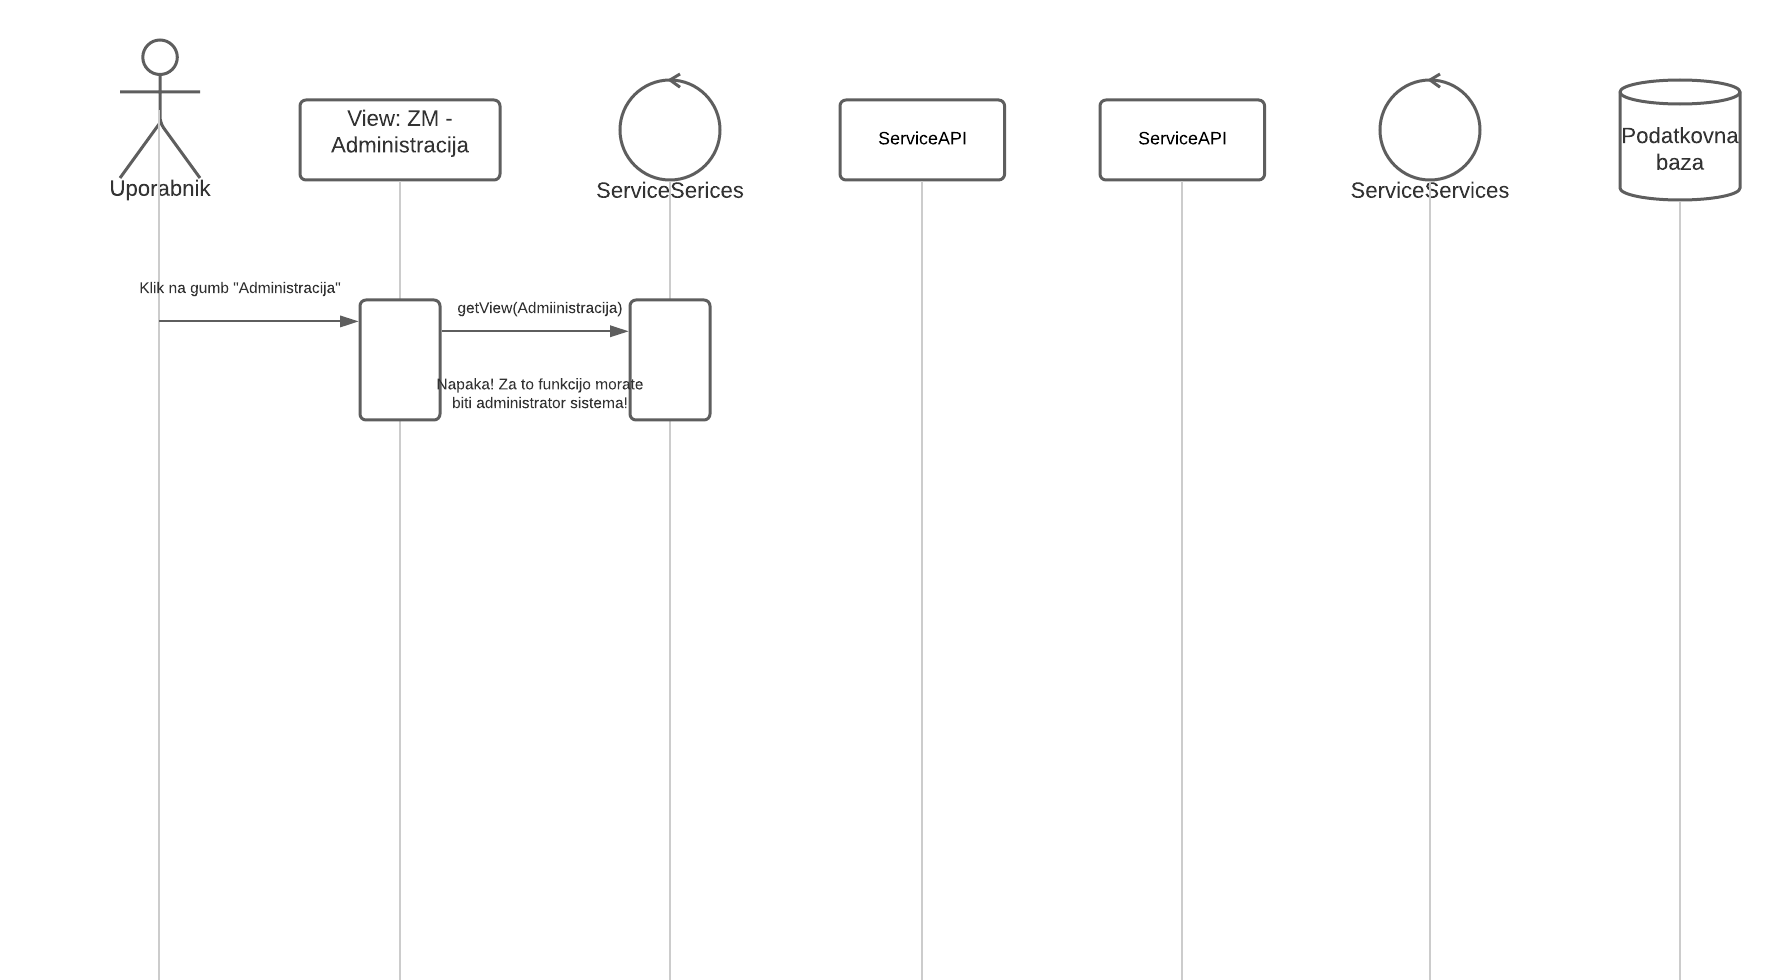
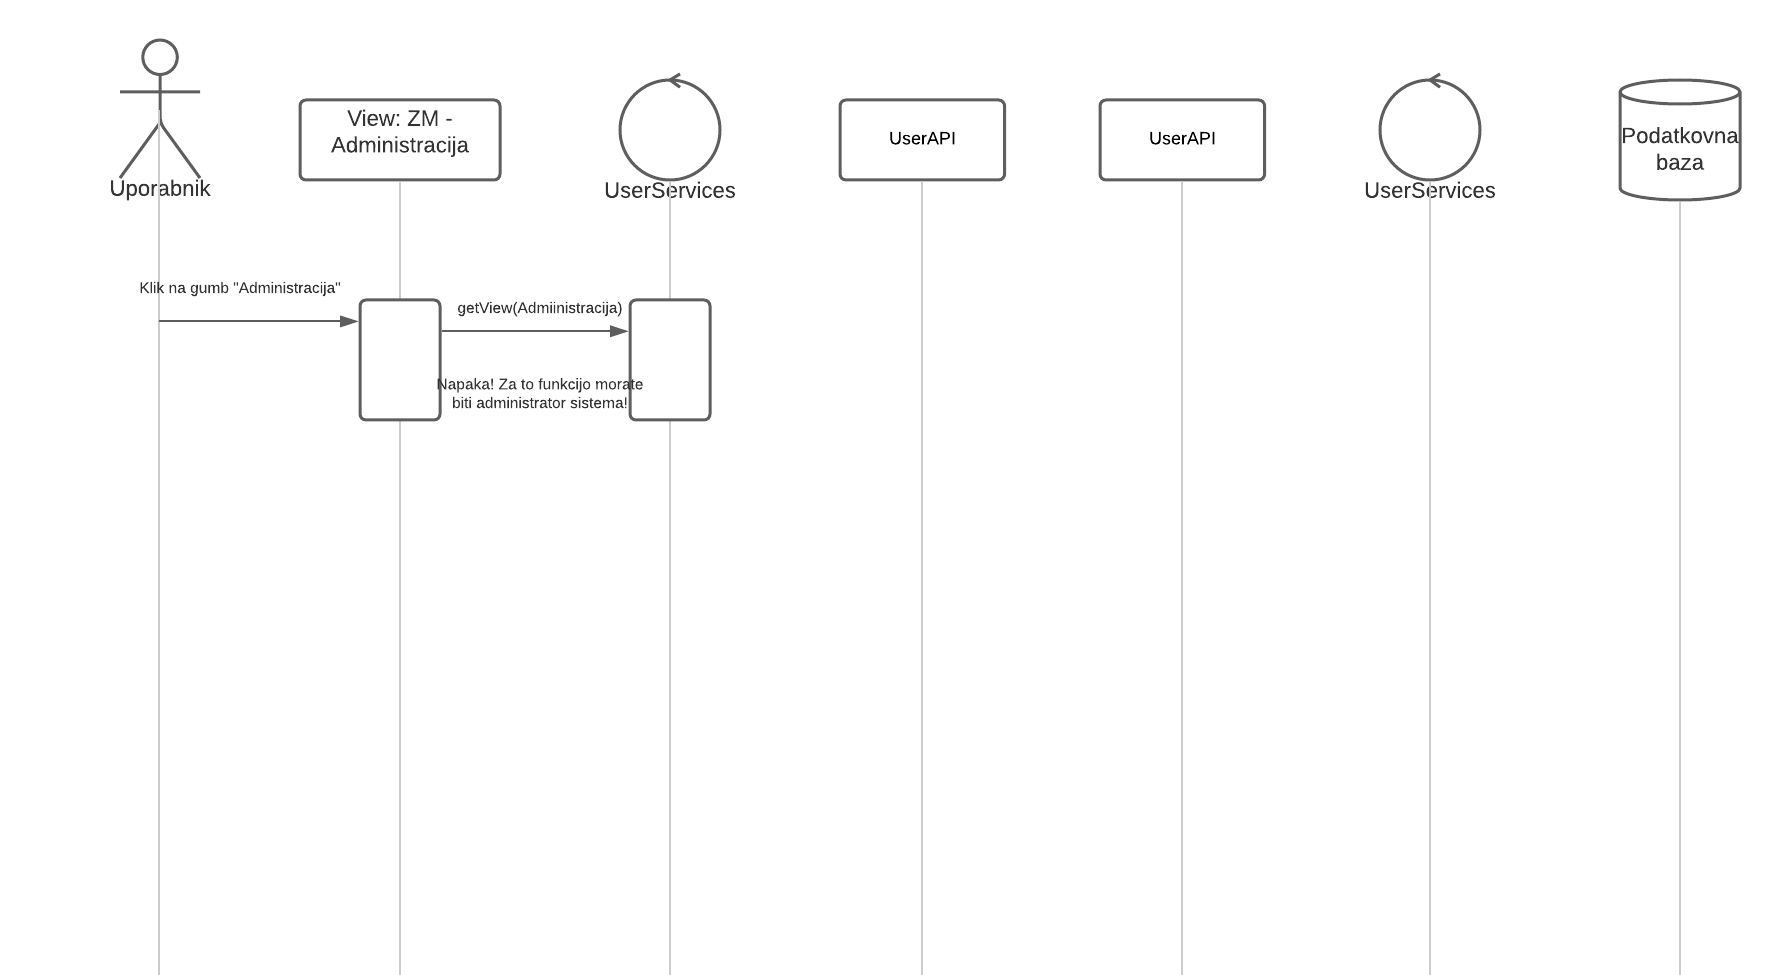
Popravek tokov pri 3.7

diff --git a/docs/nacrt/README.md b/docs/nacrt/README.md
@@ -504,7 +504,8 @@ Diagram aktivnosti je namenjem lažjemu razumevanju poteka funckionalnosti in za
 #### Osnovni tok
 
 Administrator sistema ima pravico pregledovati ter spreminjati podtke vseh prijavljenih uporabnikov.
-API klic na diagramu predstavlja klic metode `Service[] getServices()` ter `User putUser(User user)`.
+API klic na diagramu po kliku gumba "Pregled uporabnikov" predstavlja klic metode `Service[] getServices()`,
+ klic po pritisku gumba "Shrani" pa `User putUser(User user)`.
 
 ![](../img/5.7%20osnovni%20tok.png)
 
